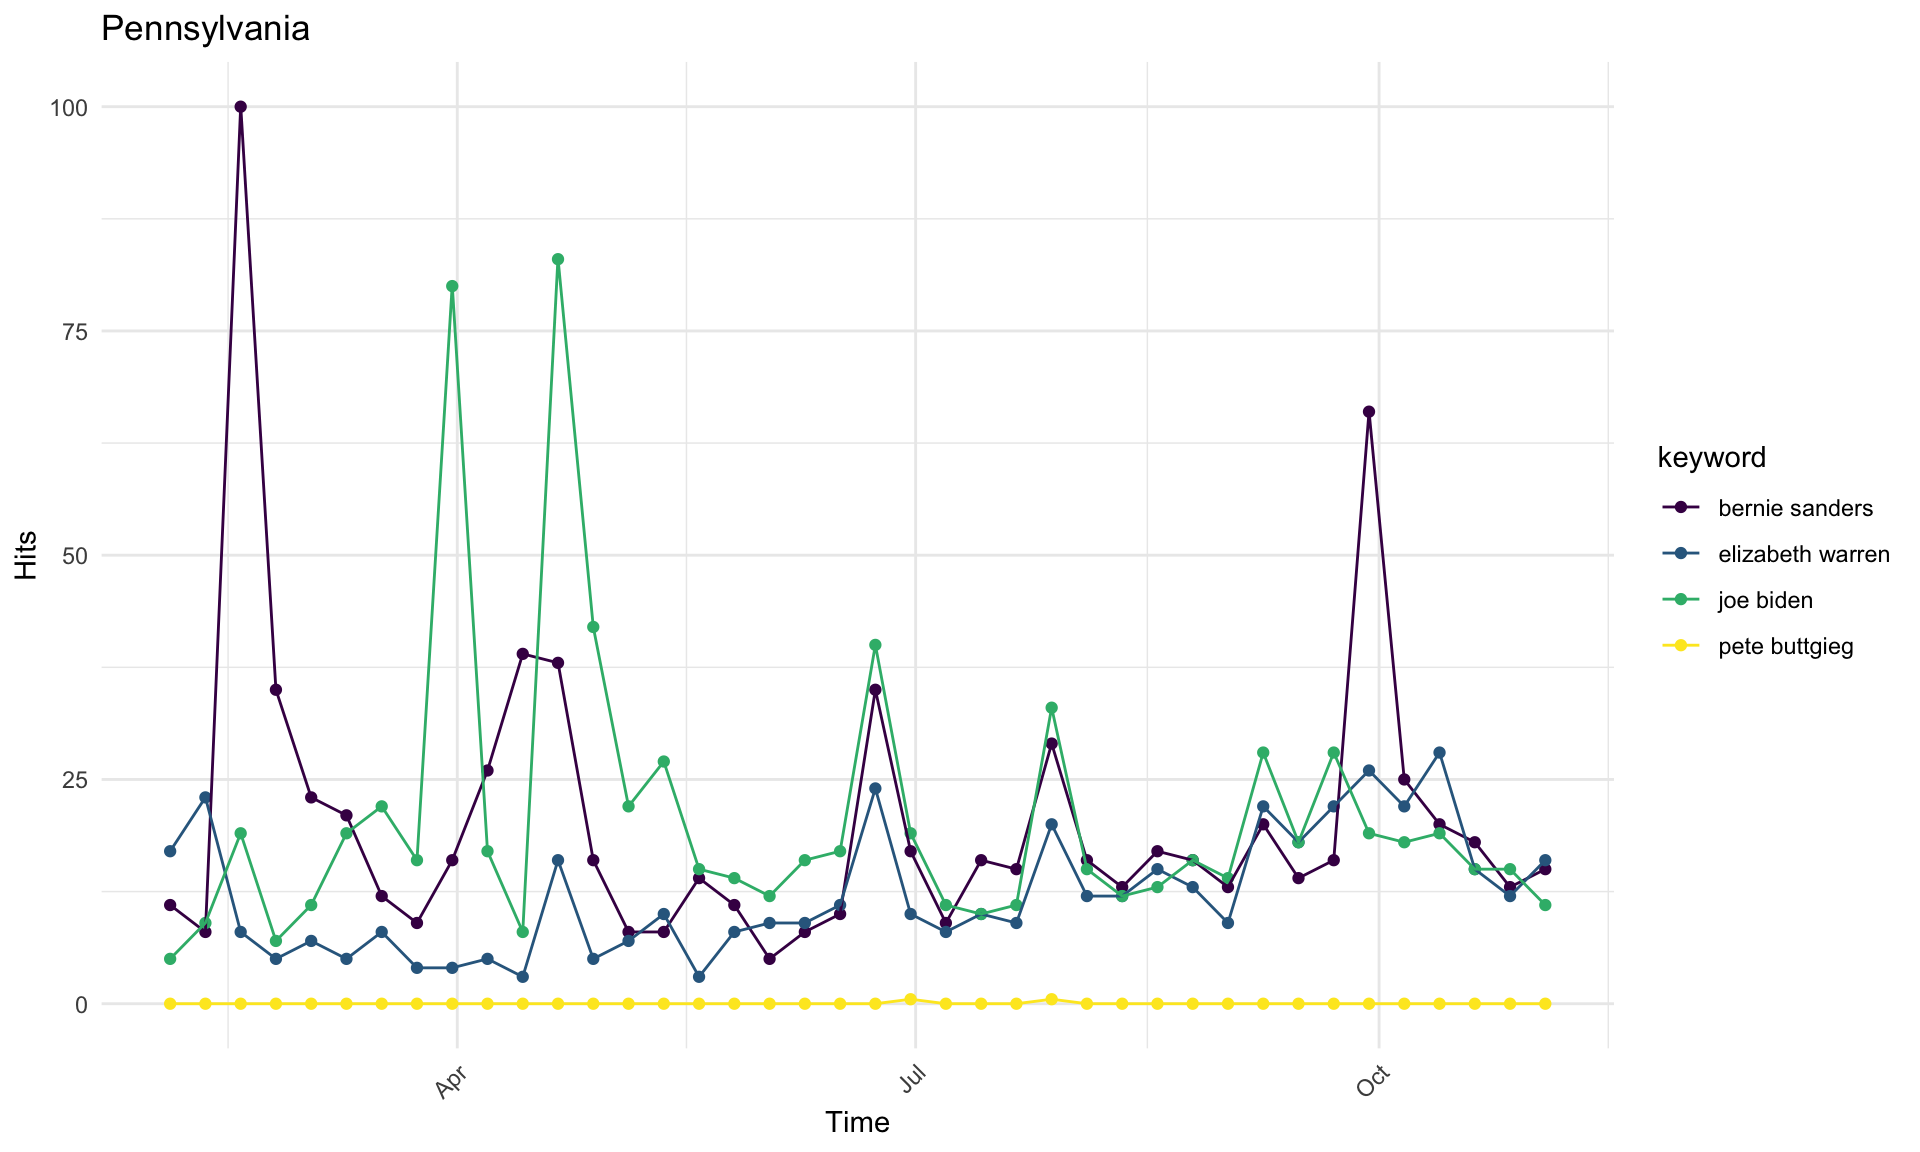
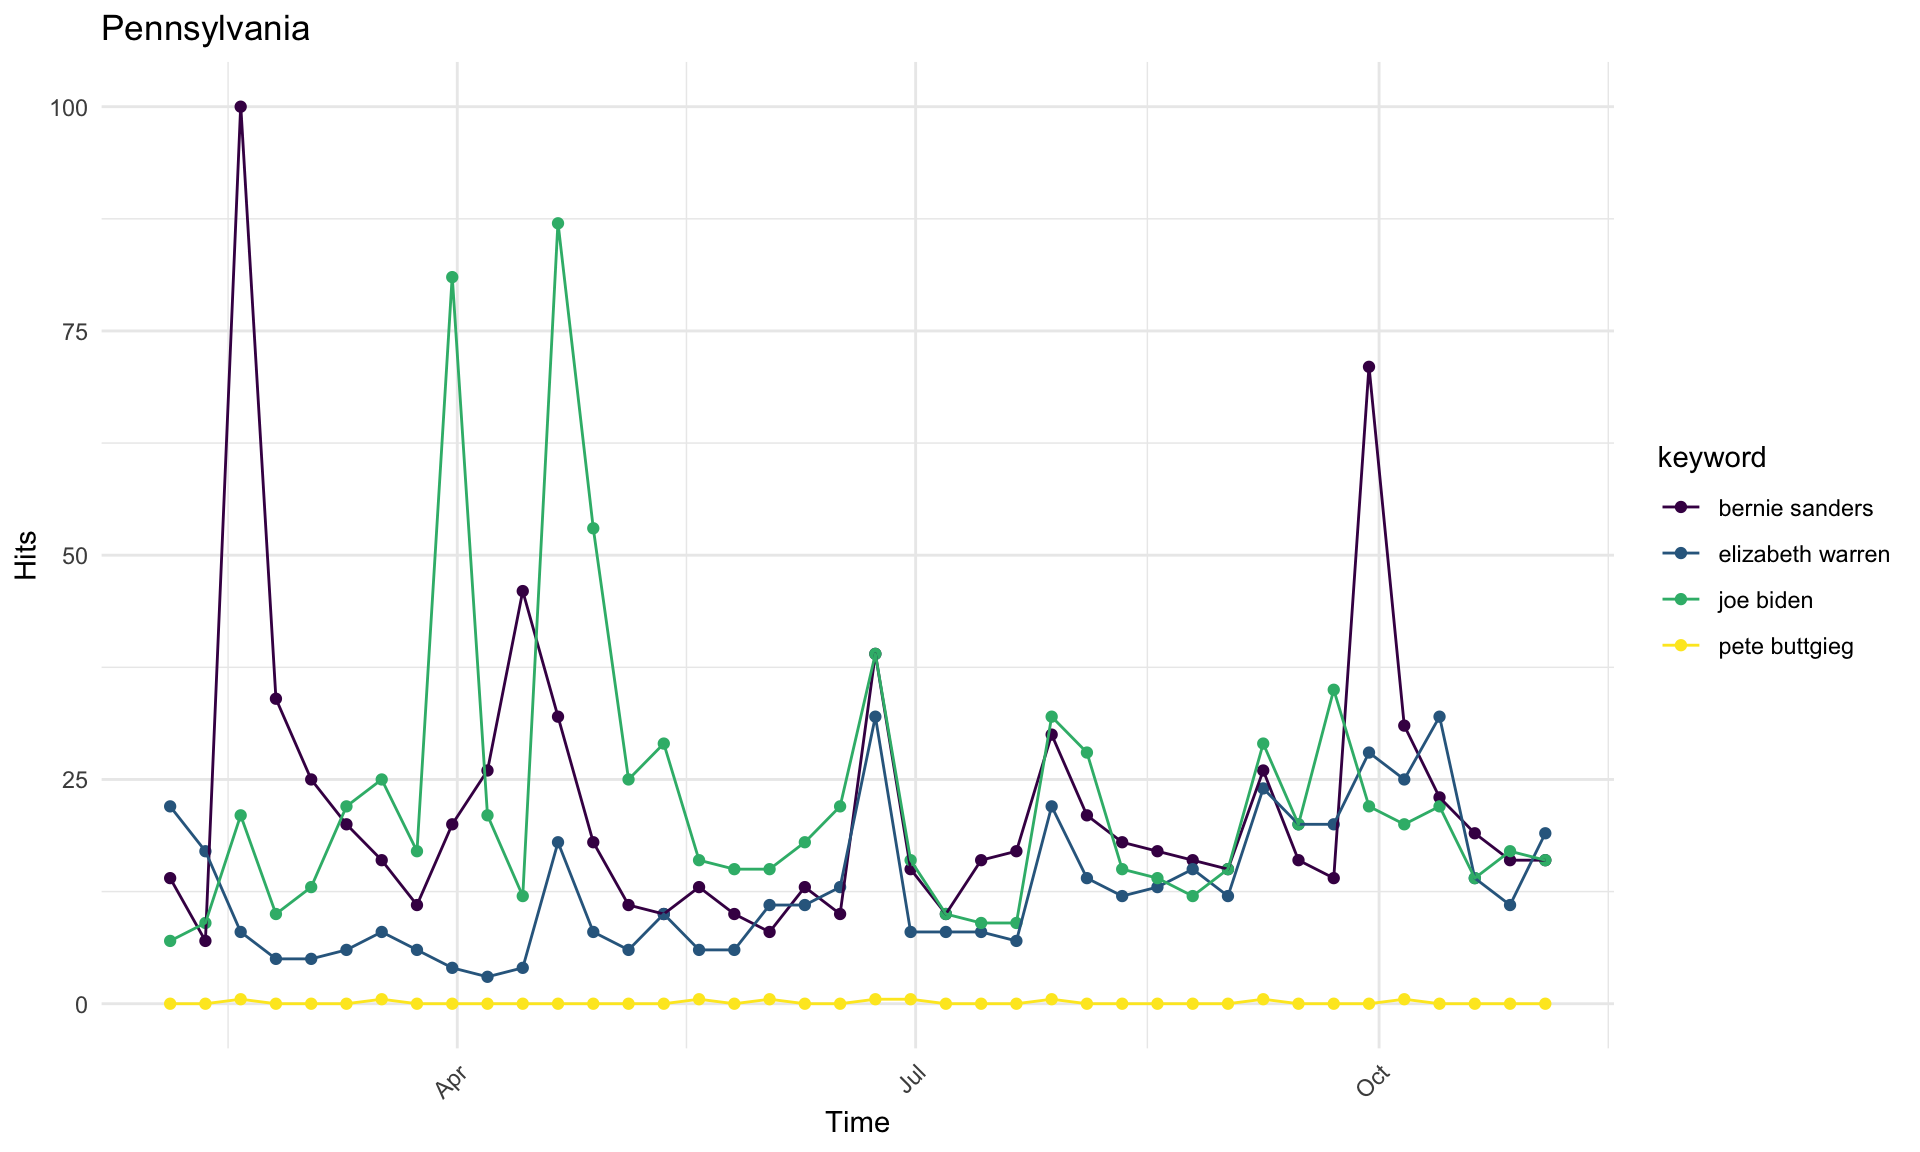
Adding text for google trends plots

diff --git a/Battleground.html b/Battleground.html
@@ -342,14 +342,14 @@ $(document).ready(function () {
 <hr />
 <div id="iowa" class="section level3">
 <h3>Iowa</h3>
-<div id="htmlwidget-cd56efd6c88fd7058e02" style="width:90%;height:576px;" class="plotly html-widget"></div>
-<script type="application/json" data-for="htmlwidget-cd56efd6c88fd7058e02">{"x":{"visdat":{"38c22123d1c8":["function () ","plotlyVisDat"]},"cur_data":"38c22123d1c8","attrs":{"38c22123d1c8":{"y":{},"color":{},"colors":"Set3","alpha_stroke":1,"sizes":[10,100],"spans":[1,20],"type":"box"}},"layout":{"margin":{"b":40,"l":60,"t":25,"r":10},"yaxis":{"domain":[0,1],"automargin":true,"title":"pct"},"xaxis":{"domain":[0,1],"automargin":true},"hovermode":"closest","showlegend":true},"source":"A","config":{"showSendToCloud":false},"data":[{"fillcolor":"rgba(190,138,190,0.5)","y":[14,16.6,12,7,7.2,14],"type":"box","name":"Buttigieg","marker":{"color":"rgba(190,138,190,1)","line":{"color":"rgba(190,138,190,1)"}},"line":{"color":"rgba(190,138,190,1)"},"xaxis":"x","yaxis":"y","frame":null},{"fillcolor":"rgba(217,235,180,0.5)","y":[28,16.8,22,24.6,24,18,20,12,9],"type":"box","name":"Warren","marker":{"color":"rgba(217,235,180,1)","line":{"color":"rgba(217,235,180,1)"}},"line":{"color":"rgba(217,235,180,1)"},"xaxis":"x","yaxis":"y","frame":null},{"fillcolor":"rgba(225,236,167,0.5)","y":[12.5,21,18,24.1,10.38],"type":"box","name":"Sanders","marker":{"color":"rgba(225,236,167,1)","line":{"color":"rgba(225,236,167,1)"}},"line":{"color":"rgba(225,236,167,1)"},"xaxis":"x","yaxis":"y","frame":null},{"fillcolor":"rgba(241,236,140,0.5)","y":[12,17.6,22,25,29,17,24,19,27,25.3,29,32,30],"type":"box","name":"Biden","marker":{"color":"rgba(241,236,140,1)","line":{"color":"rgba(241,236,140,1)"}},"line":{"color":"rgba(241,236,140,1)"},"xaxis":"x","yaxis":"y","frame":null}],"highlight":{"on":"plotly_click","persistent":false,"dynamic":false,"selectize":false,"opacityDim":0.2,"selected":{"opacity":1},"debounce":0},"shinyEvents":["plotly_hover","plotly_click","plotly_selected","plotly_relayout","plotly_brushed","plotly_brushing","plotly_clickannotation","plotly_doubleclick","plotly_deselect","plotly_afterplot"],"base_url":"https://plot.ly"},"evals":[],"jsHooks":[]}</script>
+<div id="htmlwidget-bd6f2a04b57f61dd7ec5" style="width:90%;height:576px;" class="plotly html-widget"></div>
+<script type="application/json" data-for="htmlwidget-bd6f2a04b57f61dd7ec5">{"x":{"visdat":{"39e316770ce4":["function () ","plotlyVisDat"]},"cur_data":"39e316770ce4","attrs":{"39e316770ce4":{"y":{},"color":{},"colors":"Set3","alpha_stroke":1,"sizes":[10,100],"spans":[1,20],"type":"box"}},"layout":{"margin":{"b":40,"l":60,"t":25,"r":10},"yaxis":{"domain":[0,1],"automargin":true,"title":"pct"},"xaxis":{"domain":[0,1],"automargin":true},"hovermode":"closest","showlegend":true},"source":"A","config":{"showSendToCloud":false},"data":[{"fillcolor":"rgba(190,138,190,0.5)","y":[14,16.6,12,7,7.2,14],"type":"box","name":"Buttigieg","marker":{"color":"rgba(190,138,190,1)","line":{"color":"rgba(190,138,190,1)"}},"line":{"color":"rgba(190,138,190,1)"},"xaxis":"x","yaxis":"y","frame":null},{"fillcolor":"rgba(217,235,180,0.5)","y":[28,16.8,22,24.6,24,18,20,12,9],"type":"box","name":"Warren","marker":{"color":"rgba(217,235,180,1)","line":{"color":"rgba(217,235,180,1)"}},"line":{"color":"rgba(217,235,180,1)"},"xaxis":"x","yaxis":"y","frame":null},{"fillcolor":"rgba(225,236,167,0.5)","y":[12.5,21,18,24.1,10.38],"type":"box","name":"Sanders","marker":{"color":"rgba(225,236,167,1)","line":{"color":"rgba(225,236,167,1)"}},"line":{"color":"rgba(225,236,167,1)"},"xaxis":"x","yaxis":"y","frame":null},{"fillcolor":"rgba(241,236,140,0.5)","y":[12,17.6,22,25,29,17,24,19,27,25.3,29,32,30],"type":"box","name":"Biden","marker":{"color":"rgba(241,236,140,1)","line":{"color":"rgba(241,236,140,1)"}},"line":{"color":"rgba(241,236,140,1)"},"xaxis":"x","yaxis":"y","frame":null}],"highlight":{"on":"plotly_click","persistent":false,"dynamic":false,"selectize":false,"opacityDim":0.2,"selected":{"opacity":1},"debounce":0},"shinyEvents":["plotly_hover","plotly_click","plotly_selected","plotly_relayout","plotly_brushed","plotly_brushing","plotly_clickannotation","plotly_doubleclick","plotly_deselect","plotly_afterplot"],"base_url":"https://plot.ly"},"evals":[],"jsHooks":[]}</script>
 <p>Median polling results for leading candidates show Biden still ahead of the pack with 25 percentage points but also a large range of 20 points between lowest and highest predictions. Warren follows in second in the polls and with a similarly wide range of 19 points. Just a 2 percentage point difference between Warren and Sanders may signify a tight race. Buttigieg continues to lag behind these three but remains in double digits with 13 points, all the while exhibiting the lowest range in polls at only 9.6 between .</p>
 </div>
 <div id="pennsylvania" class="section level3">
 <h3>Pennsylvania</h3>
-<div id="htmlwidget-e29f05d91b084d275be9" style="width:90%;height:576px;" class="plotly html-widget"></div>
-<script type="application/json" data-for="htmlwidget-e29f05d91b084d275be9">{"x":{"visdat":{"38c24816663b":["function () ","plotlyVisDat"]},"cur_data":"38c24816663b","attrs":{"38c24816663b":{"y":{},"color":{},"colors":"Set3","alpha_stroke":1,"sizes":[10,100],"spans":[1,20],"type":"box"}},"layout":{"margin":{"b":40,"l":60,"t":25,"r":10},"yaxis":{"domain":[0,1],"automargin":true,"title":"pct"},"xaxis":{"domain":[0,1],"automargin":true},"hovermode":"closest","showlegend":true},"source":"A","config":{"showSendToCloud":false},"data":[{"fillcolor":"rgba(190,138,190,0.5)","y":[8.5],"type":"box","name":"Buttigieg","marker":{"color":"rgba(190,138,190,1)","line":{"color":"rgba(190,138,190,1)"}},"line":{"color":"rgba(190,138,190,1)"},"xaxis":"x","yaxis":"y","frame":null},{"fillcolor":"rgba(217,235,180,0.5)","y":[9,8,8],"type":"box","name":"Warren","marker":{"color":"rgba(217,235,180,1)","line":{"color":"rgba(217,235,180,1)"}},"line":{"color":"rgba(217,235,180,1)"},"xaxis":"x","yaxis":"y","frame":null},{"fillcolor":"rgba(225,236,167,0.5)","y":[6,13],"type":"box","name":"Sanders","marker":{"color":"rgba(225,236,167,1)","line":{"color":"rgba(225,236,167,1)"}},"line":{"color":"rgba(225,236,167,1)"},"xaxis":"x","yaxis":"y","frame":null},{"fillcolor":"rgba(241,236,140,0.5)","y":[46],"type":"box","name":"Biden","marker":{"color":"rgba(241,236,140,1)","line":{"color":"rgba(241,236,140,1)"}},"line":{"color":"rgba(241,236,140,1)"},"xaxis":"x","yaxis":"y","frame":null}],"highlight":{"on":"plotly_click","persistent":false,"dynamic":false,"selectize":false,"opacityDim":0.2,"selected":{"opacity":1},"debounce":0},"shinyEvents":["plotly_hover","plotly_click","plotly_selected","plotly_relayout","plotly_brushed","plotly_brushing","plotly_clickannotation","plotly_doubleclick","plotly_deselect","plotly_afterplot"],"base_url":"https://plot.ly"},"evals":[],"jsHooks":[]}</script>
+<div id="htmlwidget-e85e7975000f05ca3b8c" style="width:90%;height:576px;" class="plotly html-widget"></div>
+<script type="application/json" data-for="htmlwidget-e85e7975000f05ca3b8c">{"x":{"visdat":{"39e316478069":["function () ","plotlyVisDat"]},"cur_data":"39e316478069","attrs":{"39e316478069":{"y":{},"color":{},"colors":"Set3","alpha_stroke":1,"sizes":[10,100],"spans":[1,20],"type":"box"}},"layout":{"margin":{"b":40,"l":60,"t":25,"r":10},"yaxis":{"domain":[0,1],"automargin":true,"title":"pct"},"xaxis":{"domain":[0,1],"automargin":true},"hovermode":"closest","showlegend":true},"source":"A","config":{"showSendToCloud":false},"data":[{"fillcolor":"rgba(190,138,190,0.5)","y":[8.5],"type":"box","name":"Buttigieg","marker":{"color":"rgba(190,138,190,1)","line":{"color":"rgba(190,138,190,1)"}},"line":{"color":"rgba(190,138,190,1)"},"xaxis":"x","yaxis":"y","frame":null},{"fillcolor":"rgba(217,235,180,0.5)","y":[9,8,8],"type":"box","name":"Warren","marker":{"color":"rgba(217,235,180,1)","line":{"color":"rgba(217,235,180,1)"}},"line":{"color":"rgba(217,235,180,1)"},"xaxis":"x","yaxis":"y","frame":null},{"fillcolor":"rgba(225,236,167,0.5)","y":[6,13],"type":"box","name":"Sanders","marker":{"color":"rgba(225,236,167,1)","line":{"color":"rgba(225,236,167,1)"}},"line":{"color":"rgba(225,236,167,1)"},"xaxis":"x","yaxis":"y","frame":null},{"fillcolor":"rgba(241,236,140,0.5)","y":[46],"type":"box","name":"Biden","marker":{"color":"rgba(241,236,140,1)","line":{"color":"rgba(241,236,140,1)"}},"line":{"color":"rgba(241,236,140,1)"},"xaxis":"x","yaxis":"y","frame":null}],"highlight":{"on":"plotly_click","persistent":false,"dynamic":false,"selectize":false,"opacityDim":0.2,"selected":{"opacity":1},"debounce":0},"shinyEvents":["plotly_hover","plotly_click","plotly_selected","plotly_relayout","plotly_brushed","plotly_brushing","plotly_clickannotation","plotly_doubleclick","plotly_deselect","plotly_afterplot"],"base_url":"https://plot.ly"},"evals":[],"jsHooks":[]}</script>
 <p>Pennsylvania has one of the last primaries (April 28th), which means polling data may not accurately reflect the ultimate outcome of voter choices, especially when considering that outcomes in early states may change the tides for specific individuals. Some candidates are therefore showing a lack of variability in current polling results, including Biden and Buttigieg. However, the overall field is exhibiting a similar trend to Iowa, as Biden leads the way with his highest polling result at 46 percentage points among sampled polls. He is followed by Sanders and Warren, who again are polling quite close together at a median of 9.5 and 8 percentage points, respectively. Buttigieg trails the field, with his highest result in the sampled polls at 8.5 percentage points.</p>
 <hr />
 </div>
@@ -358,7 +358,7 @@ $(document).ready(function () {
 <div id="google-trends-by-state" class="section level1">
 <h1>Google Trends By State</h1>
 <p><img src="Battleground_files/figure-html/unnamed-chunk-7-1.png" width="90%" /></p>
-<p>Between Iowa and Pennsylvania, there are consistent spikes in search queries for the three leading candidates: Biden, Sanders, and Warren. Not only does each individual’s proportion of hits spike at similar time points in each state, but spikes for all three candidates seem to coincide, suggesting that voters are engaging in general political searches at similar times. Sanders experienced significant popularity in search results in early spring and in October, the latter of which likely around the time of the fourth debate. Biden experienced his greatest spikes in voter search results later in the spring compared to Sanders, closer to the time of debate 1 in June. Warren did not exhibit any significant spikes in search queries but has seen a steady increase in searches over time, at least in Iowa. Both Biden and Sanders have also expereinced steady overall increases in Iowa voter search queries over time, while in Pennsylvania they’ve ultimately leveled off. All three jumped in searches around the third debate in July. Butigieg however has not been prominent in search queries at any point over the course of the year in either state, despite his recent positive polling results in Iowa.</p>
+<p>Between Iowa and Pennsylvania, there are consistent spikes in search queries for the three leading candidates: Biden, Sanders, and Warren. Not only does each individual’s proportion of searches spike at similar time points in each state, but spikes for all three candidates seem to coincide, suggesting that voters are engaging in searches for numerous candidates at similar times. Sanders experienced significant popularity in search results in early spring and in October, the latter of which likely around the time of the fourth debate. In spring in both states, he reached a search proportion of 100, which means he was the <a href="https://medium.com/google-news-lab/what-is-google-trends-data-and-what-does-it-mean-b48f07342ee8">most searched topic</a> compared to searches of all other topics on Google in these regions at that point in time. Biden experienced his greatest spikes in voter search results later in the spring compared to Sanders, around the time of debate 1, potentially due to Kamala Harris’ attacks on his stance on bussing. Warren did not exhibit any significant spikes in search queries but has seen a steady increase in searches over time, at least in Iowa. Both Biden and Sanders have also expereinced steady overall increases in Iowa voter search queries over time, while in Pennsylvania they’ve ultimately leveled off. All three saw search increases around the third debate in July. Buttigieg however has not been prominent in search queries at any point over the course of the year in either state, despite his recent positive polling results in Iowa. Overall for the top 3 candidates, changes in search results in both states likley have reflected major events in the democratic race thus far, but search queries towards the end of this year do not reflect any clear preference in candidates.</p>
 </div>
 
 
